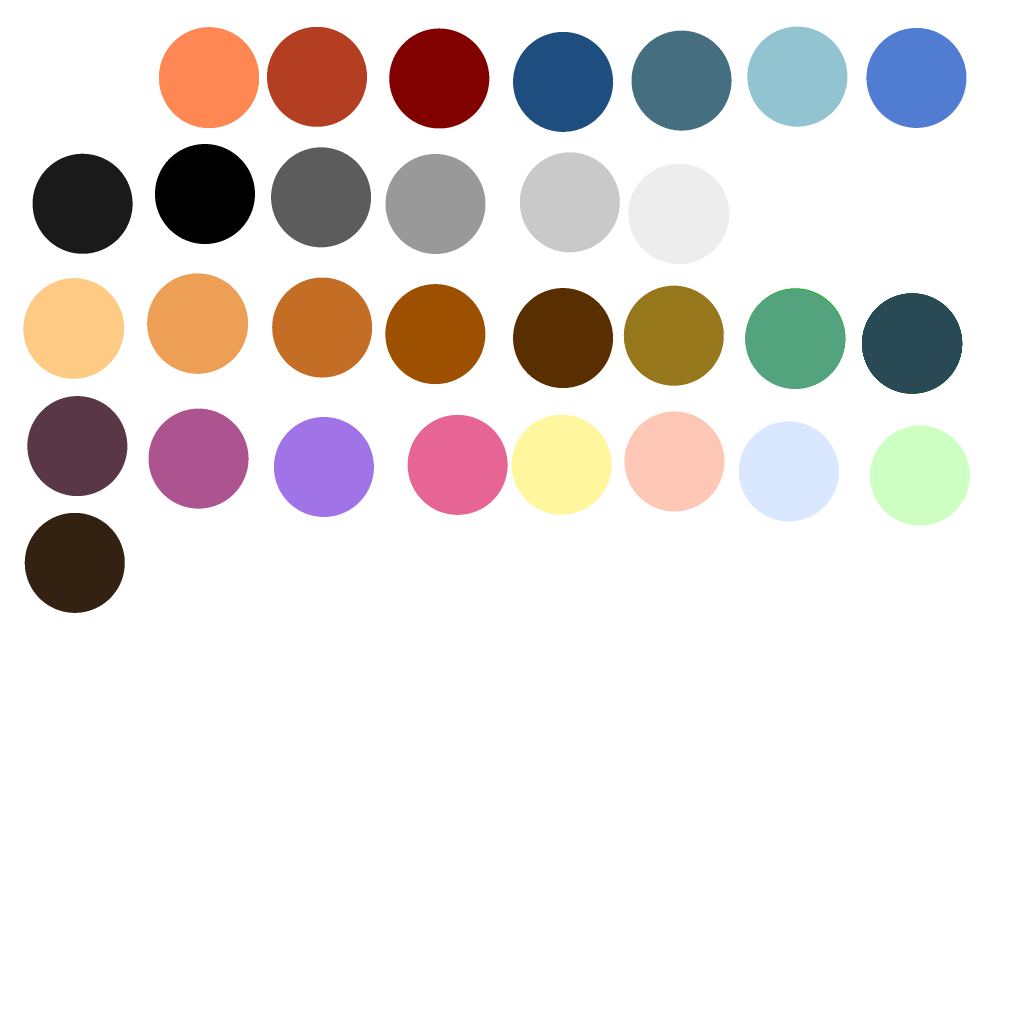
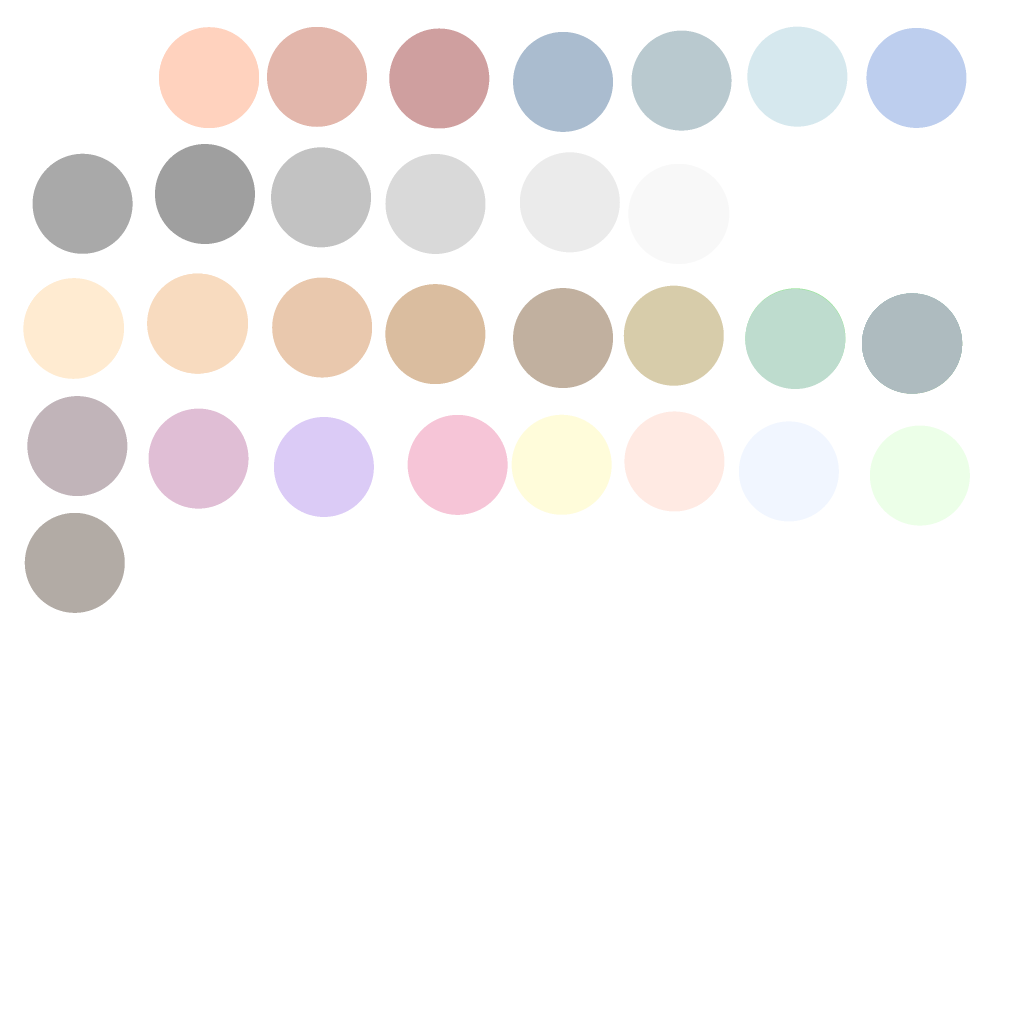
fix: work experience page blurry background chore: adjusted scene color

Changed region(s): [[0.0, 0.0, 0.9688, 0.625]]

diff --git a/src/app/shared/components/bg/Scene.ts b/src/app/shared/components/bg/Scene.ts
@@ -100,6 +100,9 @@ export class Scene {
       this.markers = markers.map((marker, index) => index ? marker.position : new THREE.Vector3(0.0000000001, 0, 0));
       
       /**
+       * Primero que todo: ACOMODAR la posición de la cámara y markers finales, ahora sí
+       * Segundo: RENOMBRAR LOS MARKERS
+       * 
        * Personaje con color
        * Volver a colores cálidos anteriores por si acaso (quizá no, me gusta blanco todo)
        * Sombras u oclusión ambiental baked
@@ -109,26 +112,31 @@ export class Scene {
       gradientMap.minFilter = THREE.NearestFilter;
       gradientMap.magFilter = THREE.NearestFilter;
       const roomTex = new THREE.TextureLoader().load('assets/models/Room_Tex.png');
-      const mat = new THREE.MeshToonMaterial({ gradientMap, map: roomTex });
 
       gltf.scene.traverse((child) => {
         if ((child as THREE.Mesh).isMesh) {
           const mesh = child as THREE.Mesh;
-          mesh.material = mat;
-          
+
+          mesh.material = new THREE.MeshToonMaterial({ 
+            gradientMap, 
+            map: roomTex, 
+            color: mesh.name == 'Room' ? 0xffffff : 0xD1EFFF
+          });
+
           if (mesh.name != 'Floor') return;
           const map = new THREE.TextureLoader().load('assets/models/Floor_Tex.png');
-          mesh.material = new THREE.MeshMatcapMaterial({ map });
+          mesh.material = new THREE.MeshToonMaterial({ gradientMap, map, color: 0xE1F1FF });
+          // mesh.material = new THREE.MeshMatcapMaterial({ map });
         }
       });
 
       this.scene.add(gltf.scene);
 
-      const ambientLight = new THREE.AmbientLight(0xffffff, 0.2);
+      const ambientLight = new THREE.AmbientLight(0xffffff, 0.3);
       this.scene.add(ambientLight);
 
       const pointLight2 = new THREE.PointLight(0xffffff, 0.3, 200);
-      pointLight2.position.set(0, 10, 5);
+      pointLight2.position.set(0, 10, 0);
       this.scene.add(pointLight2);
 
       const pointLight3 = new THREE.PointLight(0xffffff, 0.3, 140);

diff --git a/src/app/pages/work-experience-page/work-experience-page.component.ts b/src/app/pages/work-experience-page/work-experience-page.component.ts
@@ -1,4 +1,4 @@
-import { AfterViewInit, Component, ElementRef, HostListener, ViewChild } from '@angular/core';
+import { AfterViewInit, ChangeDetectorRef, Component, ElementRef, HostListener, ViewChild } from '@angular/core';
 import { WorkExperience } from 'src/app/shared/models/WorkExperience';
 import { workExperienceData } from './work-experience-data';
 import { ReplaySubject } from 'rxjs';
@@ -12,6 +12,11 @@ import { routeAnimations } from './work-experience.anim';
 })
 export class WorkExperiencePageComponent implements AfterViewInit {
   @ViewChild('wrapper') wrapperElement!: ElementRef<HTMLDivElement>;
+  @ViewChild('item') itemElement!: ElementRef<HTMLDivElement>;
+
+  public get backgroundHeight() {
+    return this.itemElement?.nativeElement.clientHeight + 100 || 0;
+  }
 
   private isScrollingOnX: boolean = false;
   private currentDragSpeed: number = 0;
@@ -20,7 +25,12 @@ export class WorkExperiencePageComponent implements AfterViewInit {
 
   readonly workExperience: WorkExperience[] = workExperienceData;
 
+  constructor(private cd: ChangeDetectorRef) {
+
+  }
+
   ngAfterViewInit(): void {
+    // this.cd.detectChanges();    
   }
 
   @HostListener('mousemove', ['$event'])

diff --git a/src/app/pages/work-experience-page/work-experience-page.component.html b/src/app/pages/work-experience-page/work-experience-page.component.html
@@ -1,6 +1,14 @@
 <div id="wrapper" #wrapper [@routeAnimations]>
-  <div id="background"></div>
-  <div class="work-exp" *ngFor="let exp of workExperience">
+  <div
+    id="background"
+    [ngStyle]="{ 'height.px': backgroundHeight }"
+  ></div>
+
+  <div
+    class="work-exp"
+    *ngFor="let exp of workExperience"
+    #item
+  >
     <div class="work-exp__year">{{ exp.year }}</div>
     <h3 class="work-exp__title super-title">{{ exp.title }}</h3>
     <div class="work-exp__subtitle">{{ exp.subtitle }}</div>

diff --git a/src/app/pages/work-experience-page/work-experience-page.component.scss b/src/app/pages/work-experience-page/work-experience-page.component.scss
@@ -18,16 +18,14 @@
   }
 
   #background {
-    // background: var(--card-bg);
     background: rgba(255, 255, 255, .05);
     backdrop-filter: var(--bg-blur);
     position: fixed;
     z-index: -1;
     width: 100%;
-    height: 70%;
-    top: calc(var(--main-content-padding) + 50%);
-    left: 0;
+    top: calc(50% + var(--main-content-padding) - 20px);
     transform: translateY(-50%);
+    left: 0;
   }
 }
 
